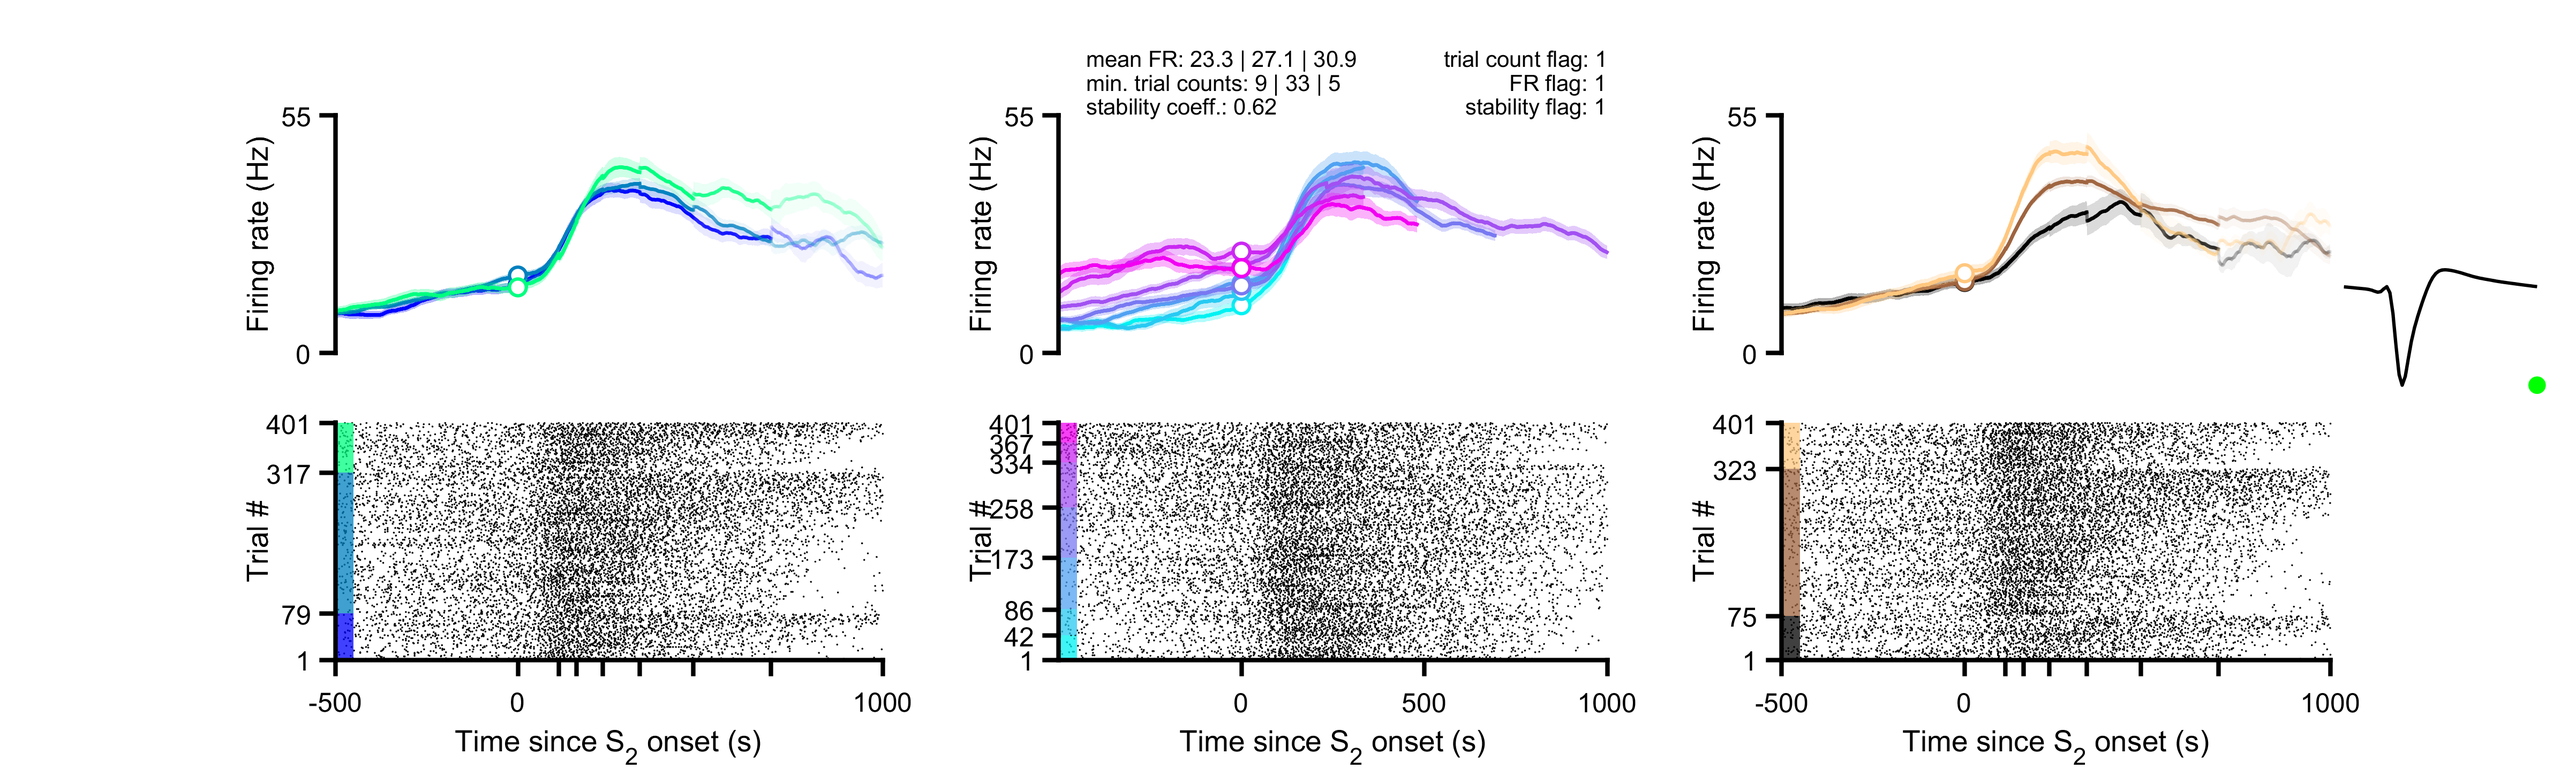
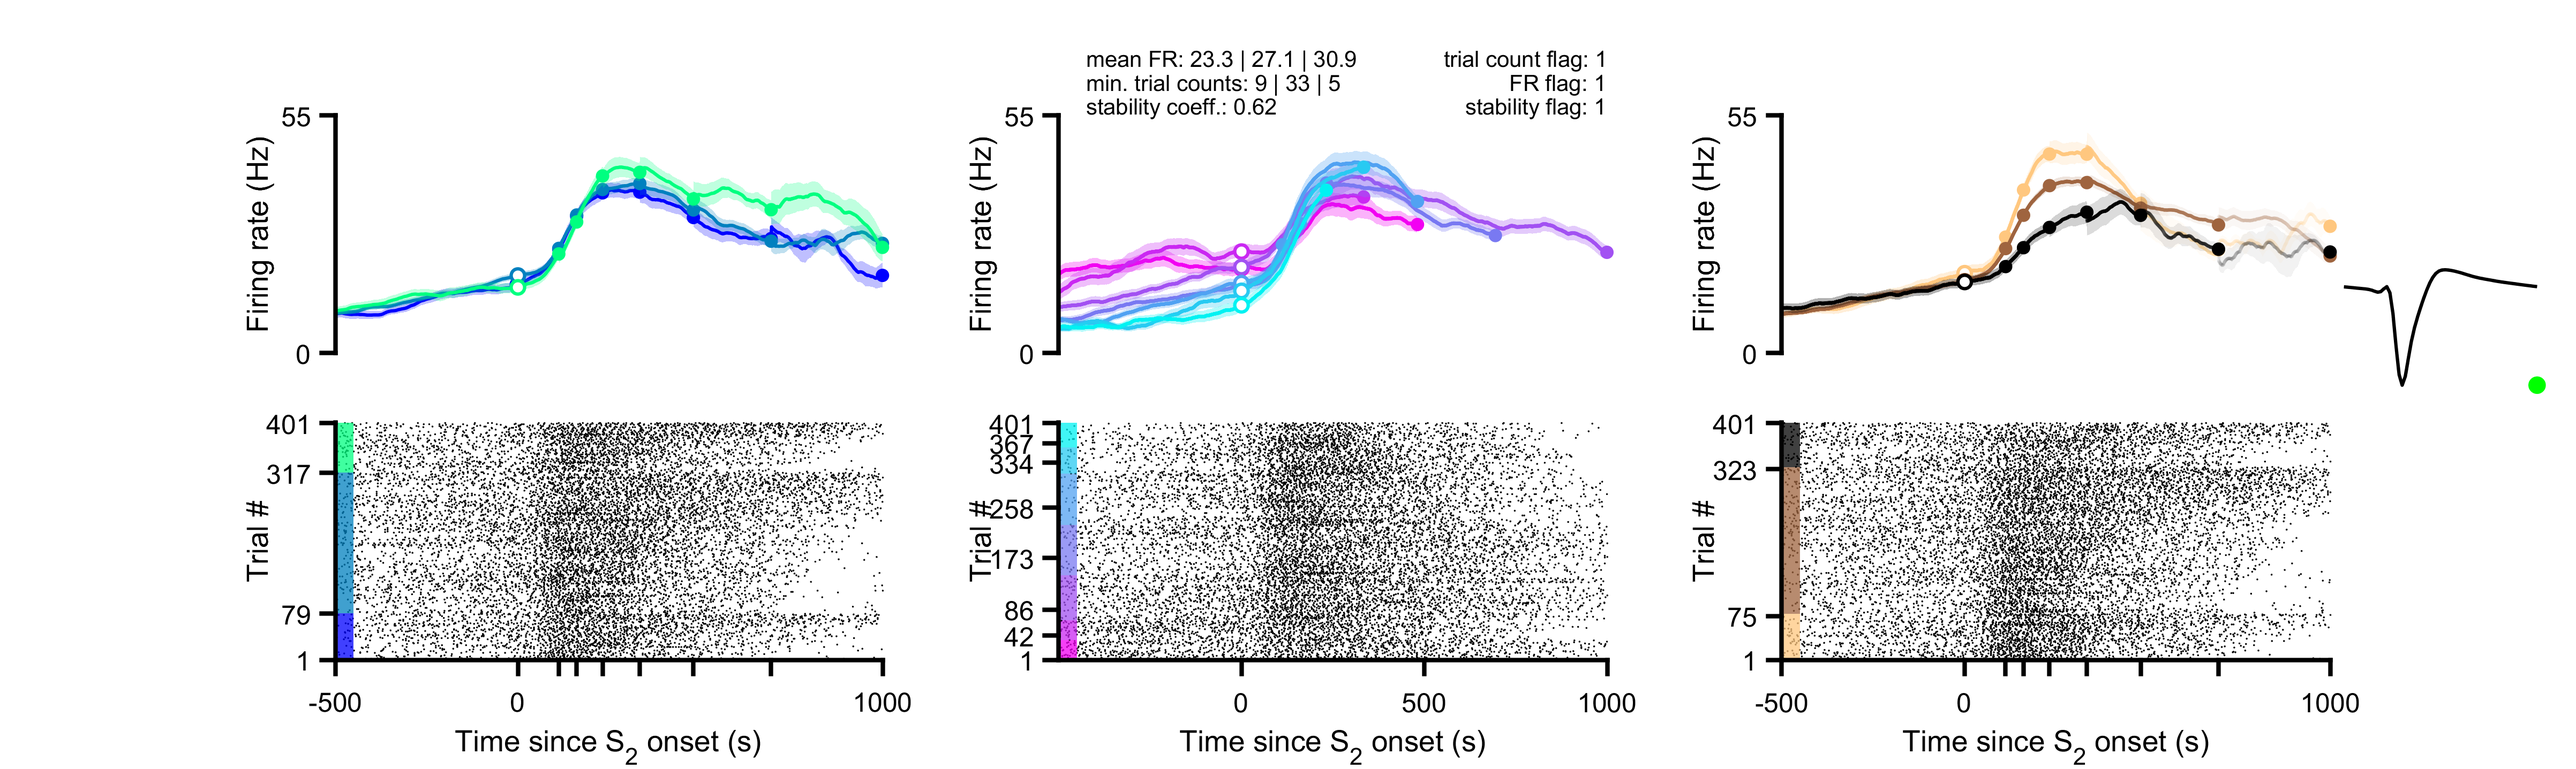
rasters

diff --git a/toso2021_PCA_t2Aligned.m b/toso2021_PCA_t2Aligned.m
@@ -445,7 +445,7 @@ for pc = 1 : n_pcs2plot
             s2_score(onset_flags,pc,ii),...
             'linewidth',1.5,...
             'marker','o',...
-            'markersize',5,...
+            'markersize',6,...
             'markerfacecolor','w',...
             'markeredgecolor',contrast_clrs(ii,:));
         
